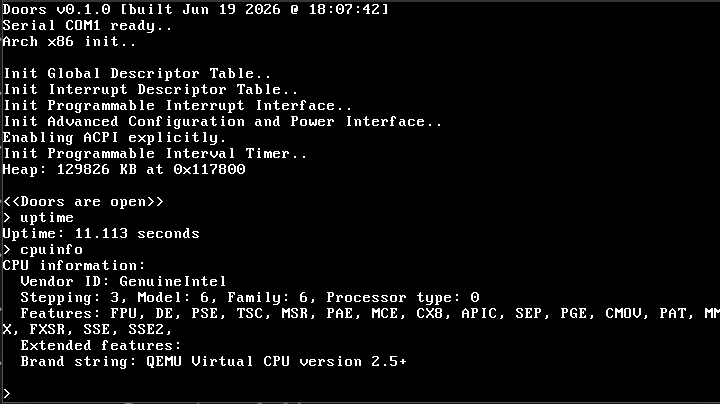
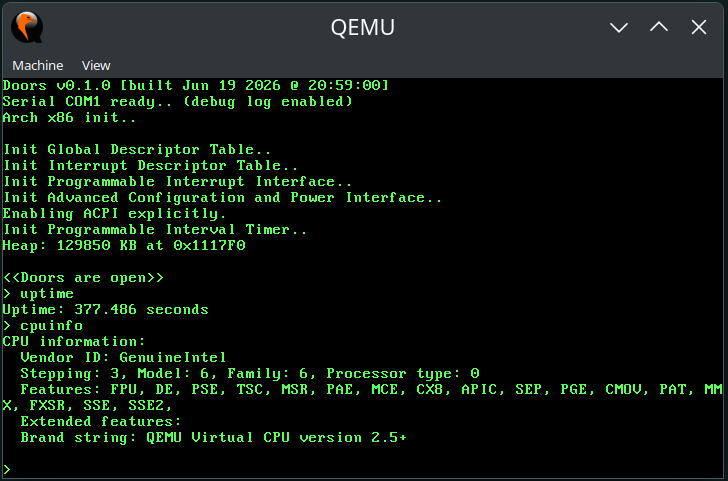
Change to light green foreground TTY color

Changed region(s): [[0.0, 0.0, 1.0, 1.0], [0.4889, 0.297, 0.6111, 0.3267]]

diff --git a/kernel/arch/i386/Tty.cpp b/kernel/arch/i386/Tty.cpp
@@ -13,13 +13,15 @@
 #endif
 
 namespace {
+  constexpr uint8_t DEFAULT_COLOR = vgaColor(COLOR_LIGHT_GREEN, COLOR_BLACK);
+
   static constinit uint8_t termRow = 0,
     termCol = 0,
-    termColor = vgaColor(COLOR_WHITE, COLOR_BLACK);
+    termColor = DEFAULT_COLOR;
   static constinit bool scrolling = true;
 
   void clearRow(uint8_t row) {
-    termColor = vgaColor(COLOR_WHITE, COLOR_BLACK);
+    termColor = DEFAULT_COLOR;
     for (uint8_t col = 0; col < VGA_WIDTH; col++) {
       Tty::putc(' ', row, col);
     }
@@ -126,7 +128,7 @@ void Tty::setScrolling(bool enabled) {
 
 void Tty::cls() {
   termRow = termCol = 0;
-  termColor = vgaColor(COLOR_WHITE, COLOR_BLACK);
+  termColor = DEFAULT_COLOR;
   size_t total = VGA_WIDTH * VGA_HEIGHT;
   for (size_t i = 0; i < total; i++) {
     VGA_RAM[i] = vgaEntry(' ', termColor);